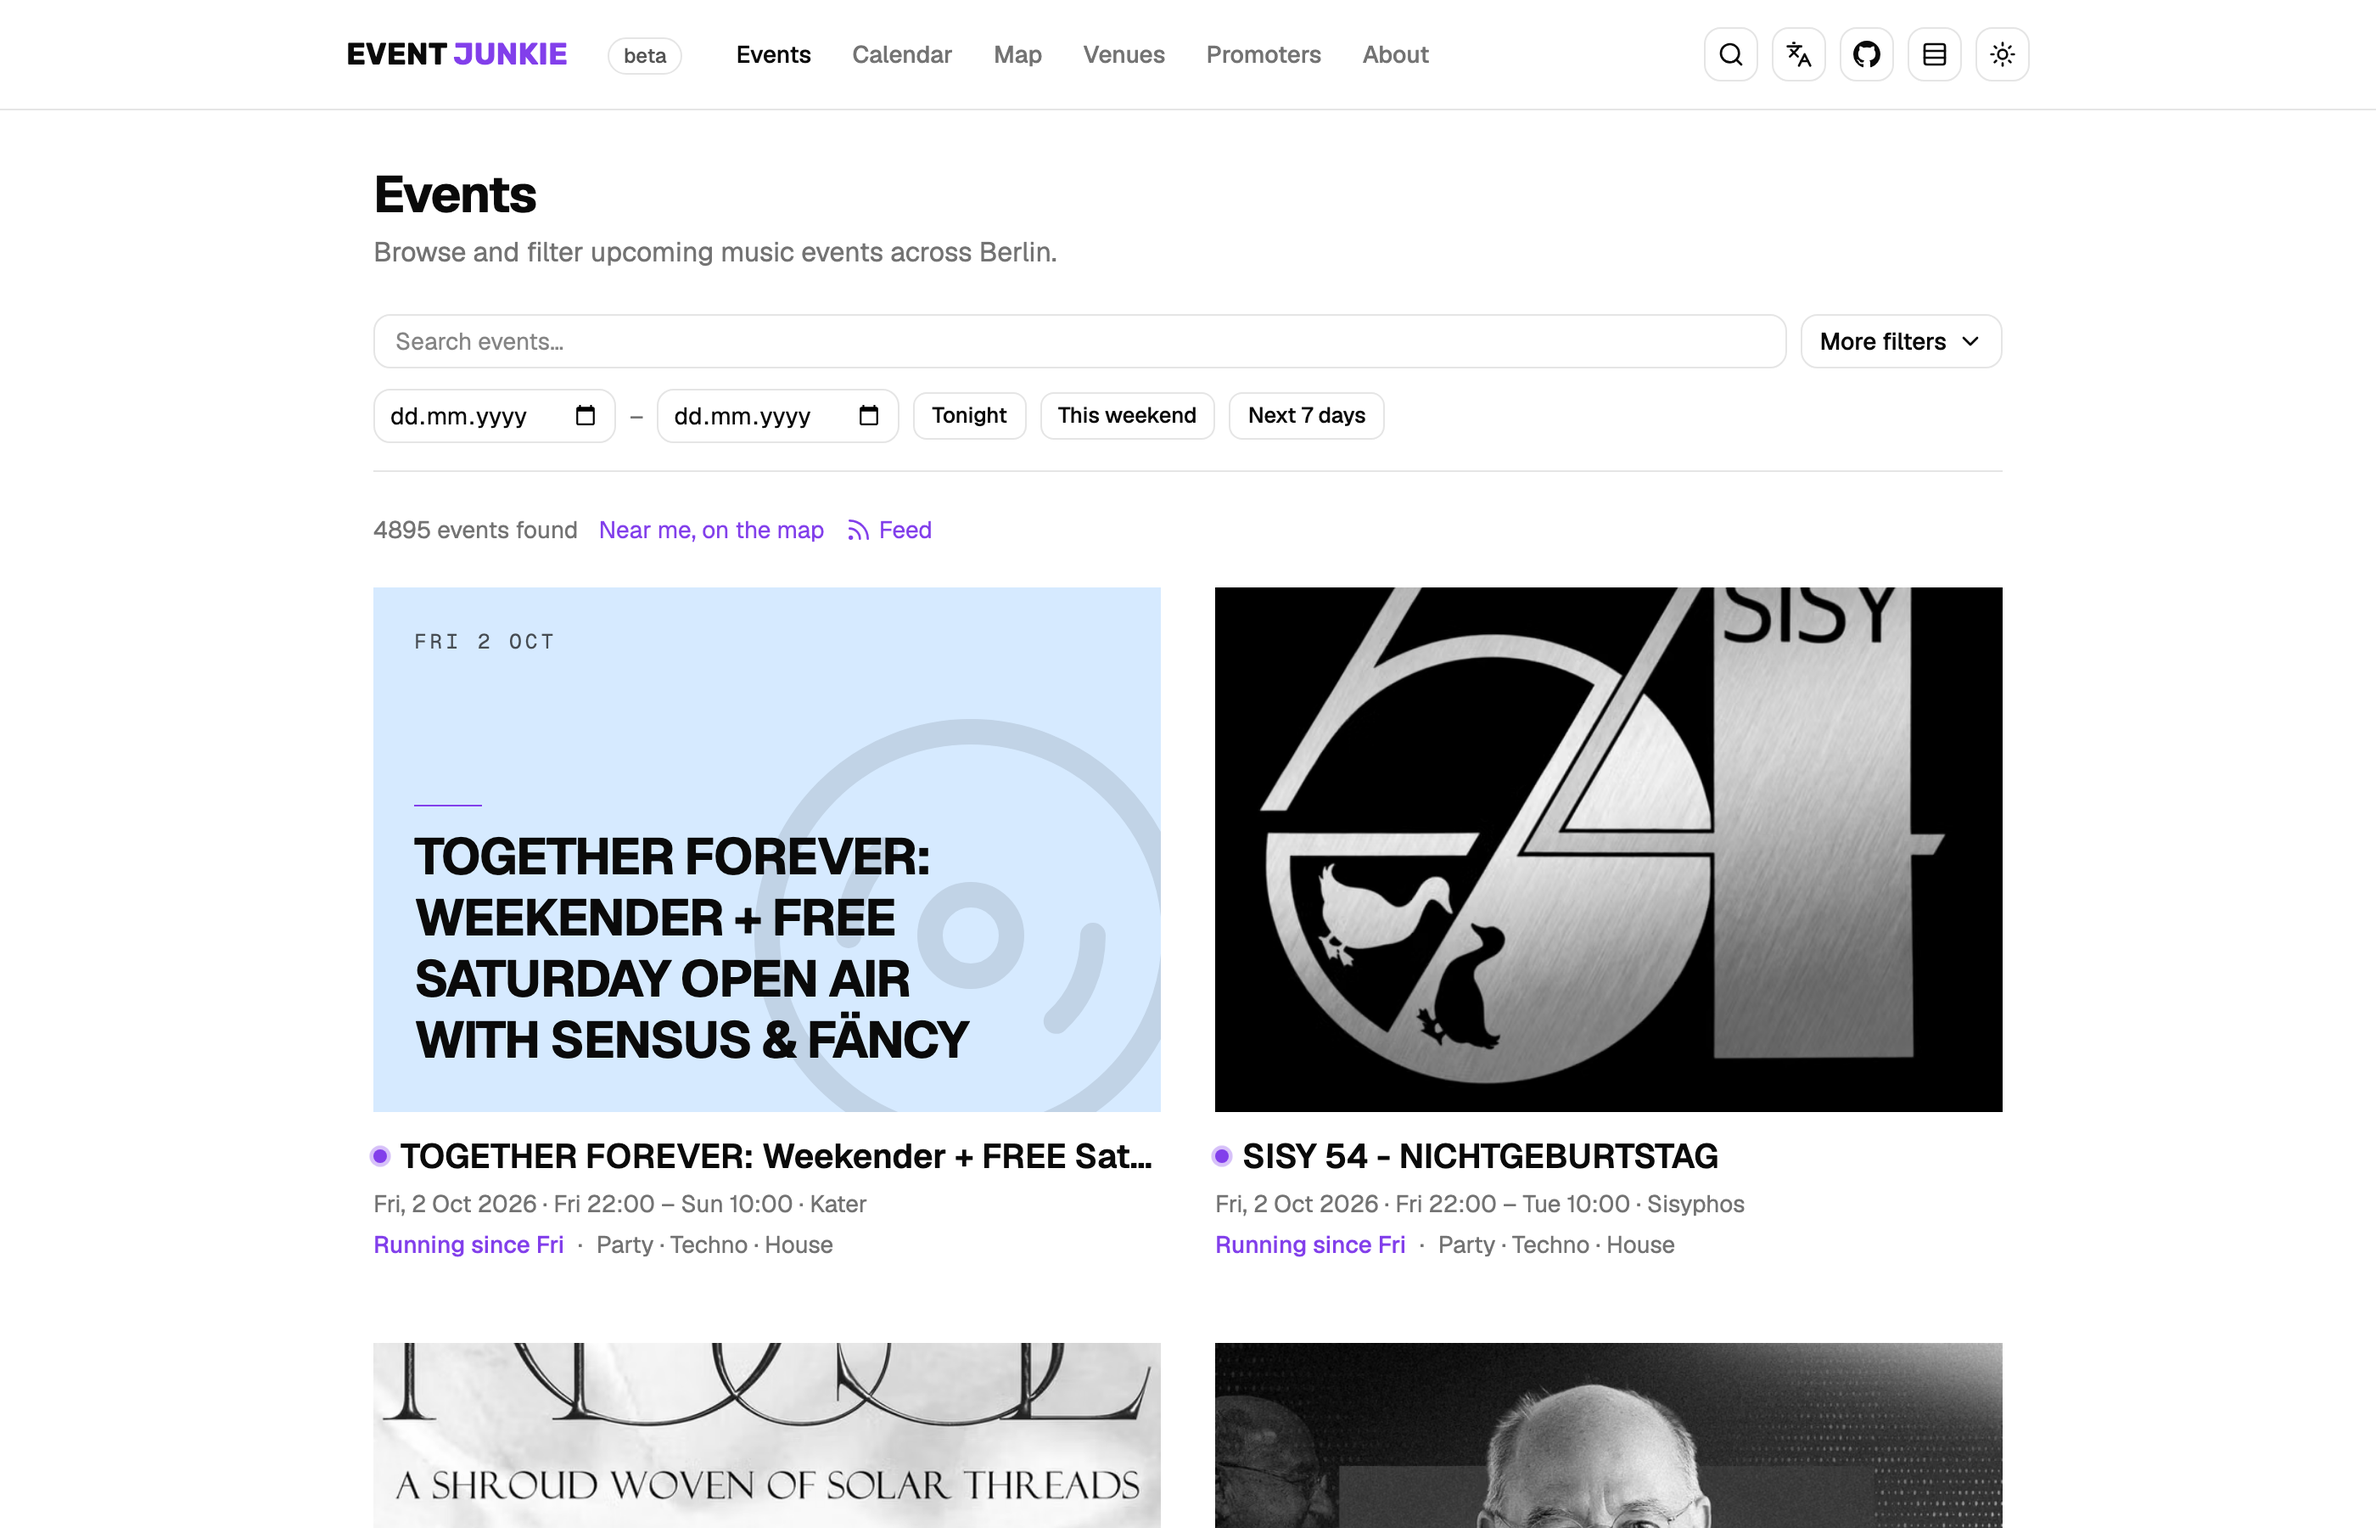
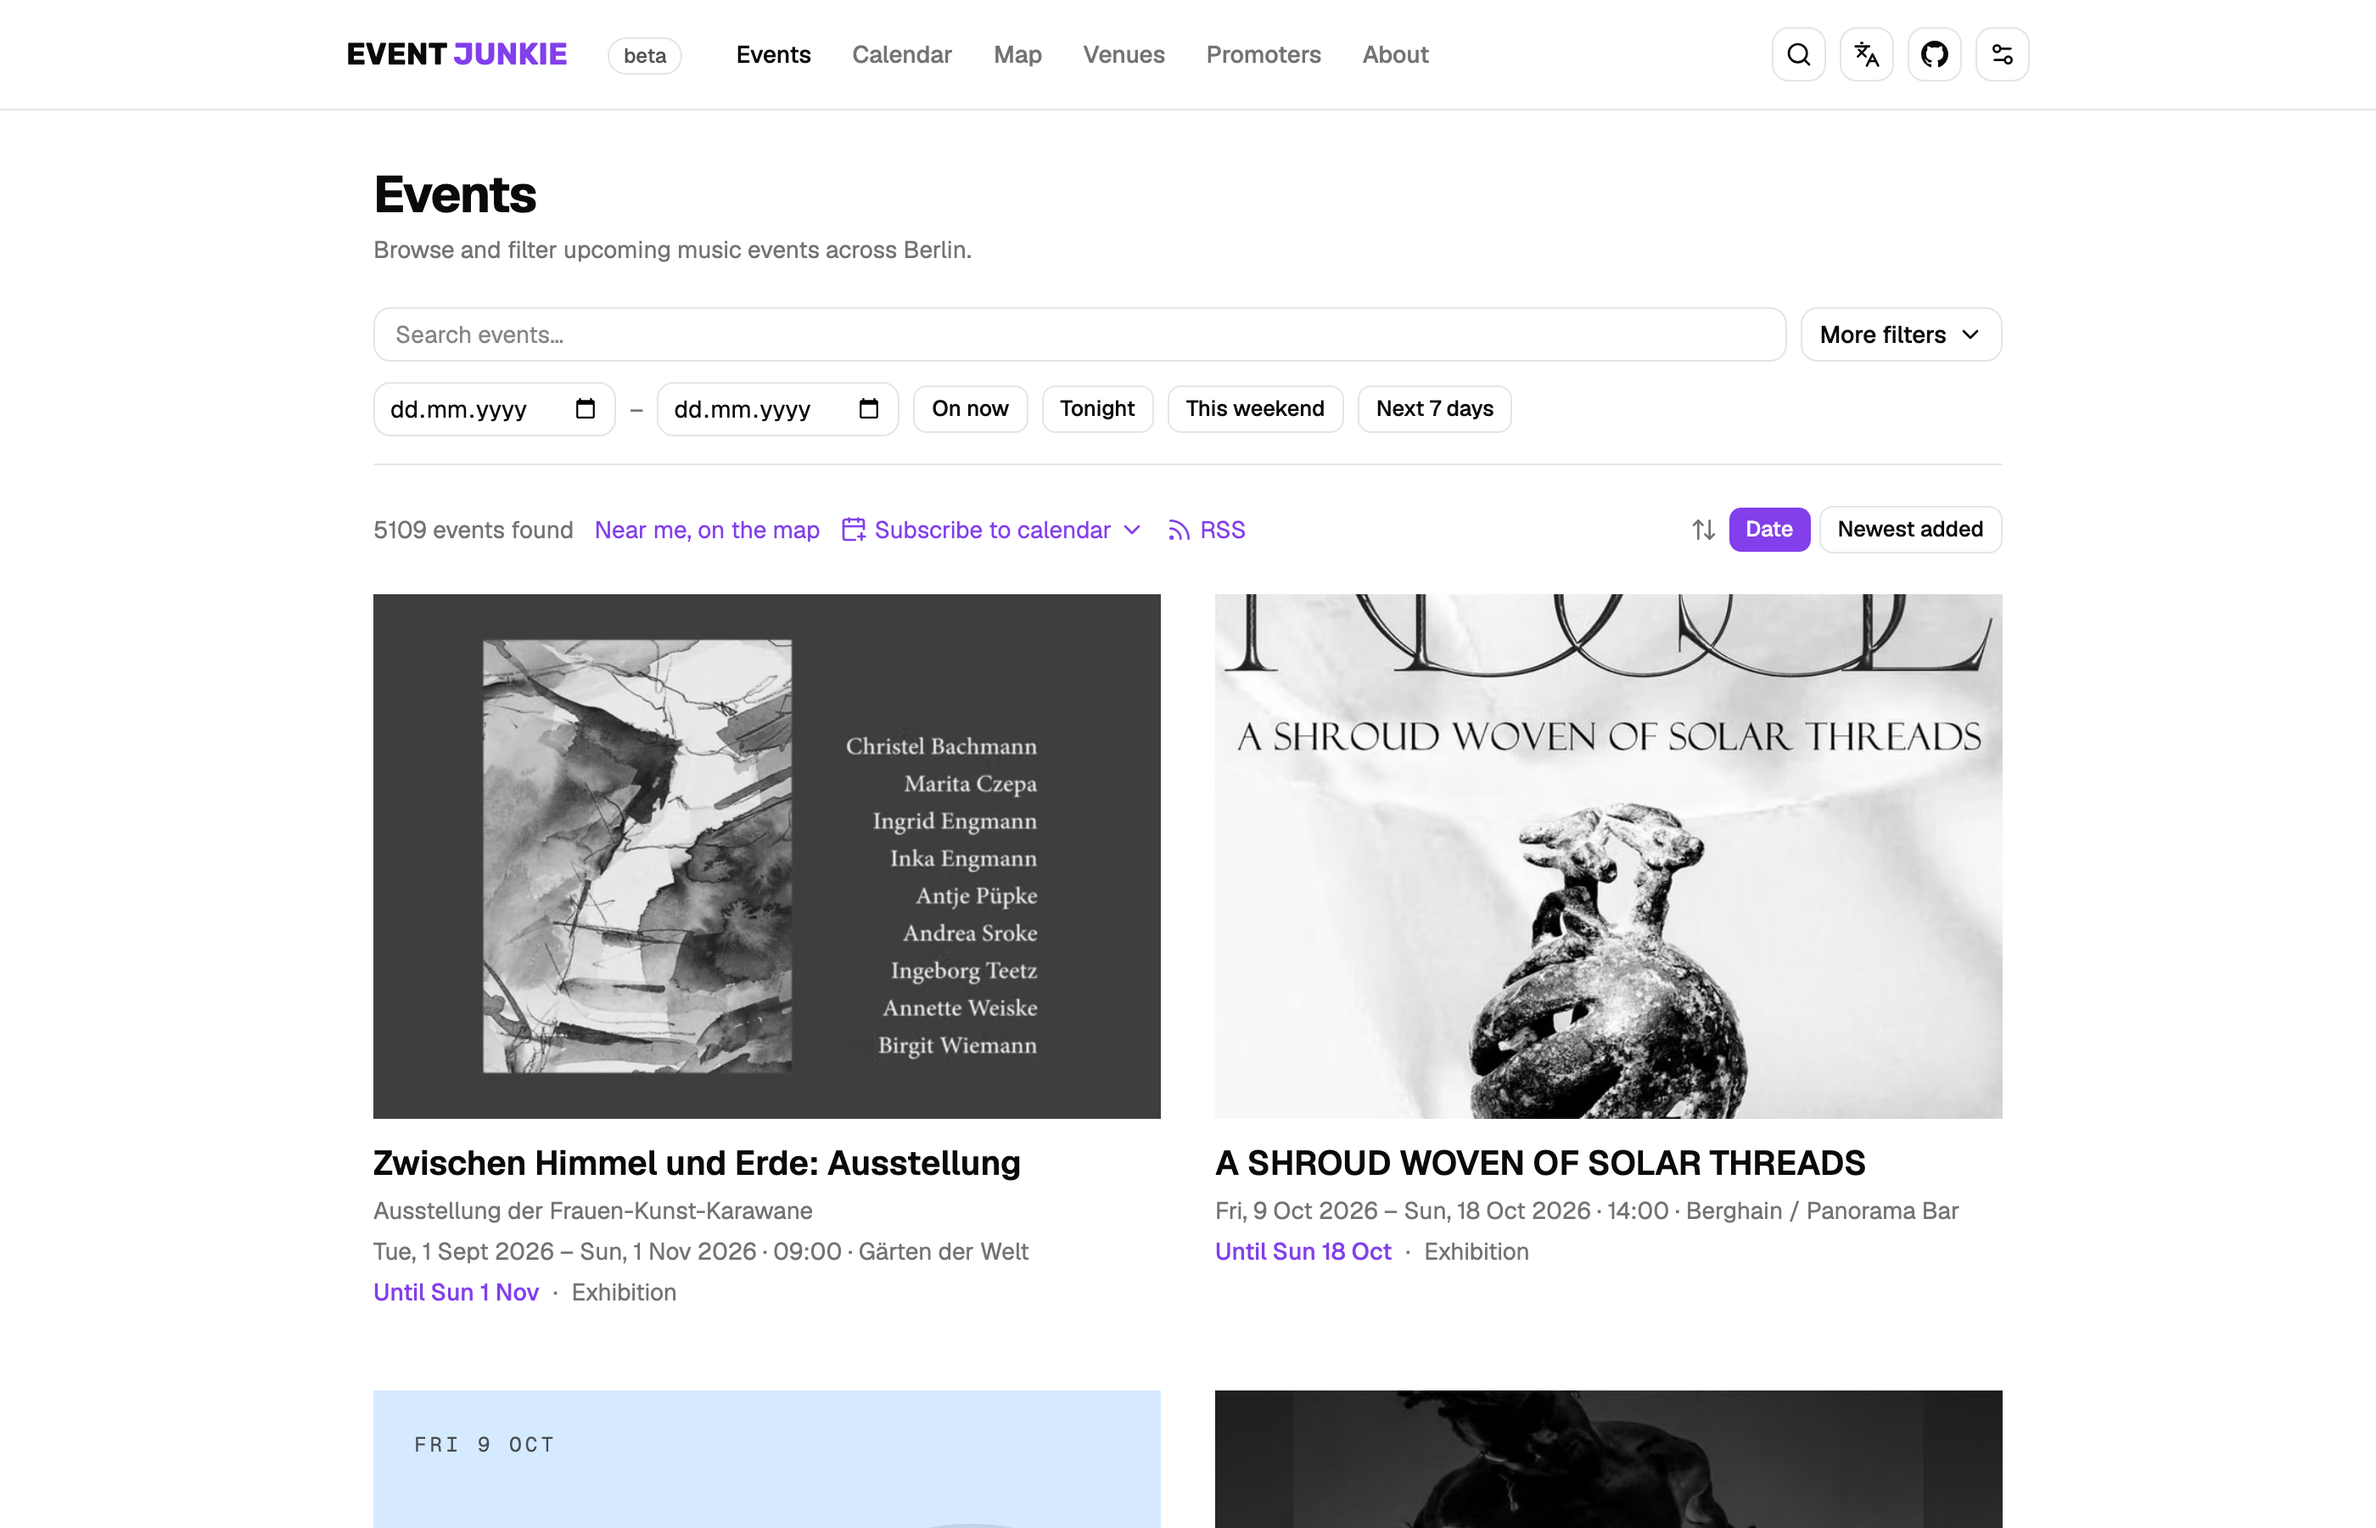
docs(screenshots): retake the README screenshots from production 0.49.1
The four events-list screenshots dated from 2026-10-04 and showed the old
header (separate theme and compact icons) and the old filter bar. Releases
since then moved theme and compact view into one display-settings popover,
added the date presets with On now, put the second filter tier behind
"More filters" (a bottom sheet on a phone), and moved the sort and the
calendar subscription onto the results line.

scripts/readme-screenshots.sh retook all four from https://event-junkie.de
and set the "Taken" dates. Two captions still described the old design and
now say what the pictures show: the light theme is reached through the
display settings, not a toggle, and the phone shot has search and date
presets on top, not date inputs.

Claude-Session: https://claude.ai/code/session_016Na8d3rRXtwodHEzrJuvQk

diff --git a/docs/screenshots/README.md b/docs/screenshots/README.md
@@ -4,10 +4,10 @@ Pictures of the running product, for the README and anywhere else a reader needs
 
 | File                                                 | What it shows                                                               | Taken      |
 | ---------------------------------------------------- | --------------------------------------------------------------------------- | ---------- |
-| [`events-dark.png`](events-dark.png)                 | The events list — filter bar over the poster grid, dark theme, 1400×900 @2× | 2026-10-04 |
-| [`events-light.png`](events-light.png)               | The same list in the light theme, which the toggle is the only way into     | 2026-10-04 |
-| [`events-mobile-dark.png`](events-mobile-dark.png)   | The same list on a phone, dark theme, 390×844 @2×                           | 2026-10-04 |
-| [`events-mobile-light.png`](events-mobile-light.png) | The phone list in the light theme                                           | 2026-10-04 |
+| [`events-dark.png`](events-dark.png)                 | The events list — filter bar over the poster grid, dark theme, 1400×900 @2× | 2026-10-11 |
+| [`events-light.png`](events-light.png)               | The same list in the light theme, which only the display settings switch to | 2026-10-11 |
+| [`events-mobile-dark.png`](events-mobile-dark.png)   | The same list on a phone, dark theme, 390×844 @2×                           | 2026-10-11 |
+| [`events-mobile-light.png`](events-mobile-light.png) | The phone list in the light theme                                           | 2026-10-11 |
 
 **The date is the point of the table.** Nothing here can go stale loudly. A screenshot of last year's UI renders
 exactly as well as one of today's. The date next to it is the only signal a reader gets. Update the date when you

diff --git a/README.md b/README.md
@@ -28,7 +28,7 @@ One filterable feed of what is on across Berlin's venues, collected automaticall
   </picture>
   <picture>
     <source media="(prefers-color-scheme: light)" srcset="./docs/screenshots/events-mobile-light.png" />
-    <img alt="The same events list on a phone: search and dates on top, one event per row" src="./docs/screenshots/events-mobile-dark.png" width="208" />
+    <img alt="The same events list on a phone: search and date presets on top, one event per row" src="./docs/screenshots/events-mobile-dark.png" width="208" />
   </picture>
 </p>
 
